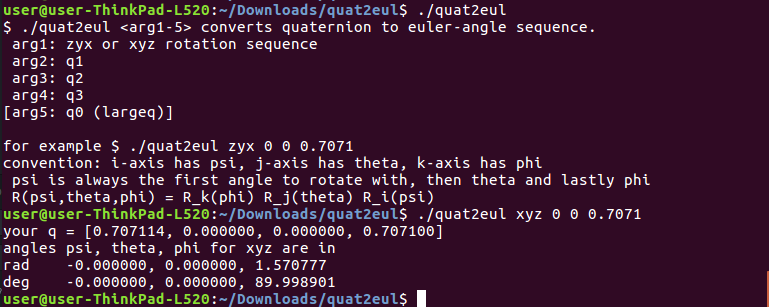
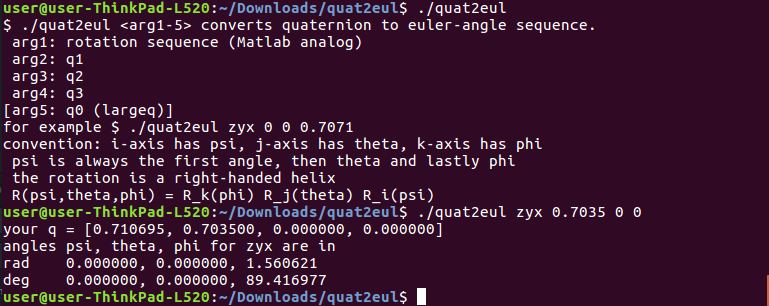
testing further seq

Changed region(s): [[0.0, 0.0, 0.8427, 1.0], [0.9987, 0.8824, 1.0, 0.9118]]

diff --git a/quat2eul.cpp b/quat2eul.cpp
@@ -13,6 +13,8 @@
 // Source https://scholar.google.de/scholar?cluster=3204262265835591787
 //        http://de.mathworks.com/help/robotics/ref/quat2eul.html
 //
+// TODO verify other sequences from Fullers spincalc
+//
 #include <string>
 #include <sstream>
 #include <iostream>
@@ -22,35 +24,64 @@
 
 using namespace std;
 
-// quaternation to euler in ZYX (seq:321)
-double* quat2eulerzyx(double* q){
-
-  // euler-angles
-  double psi = atan2( 2.*(q[1]*q[2] + q[0]*q[3]) , q[0]*q[0] + q[1]*q[1]- q[2]*q[2] - q[3]*q[3]);
-  double theta = asin( -2.*(q[1]*q[3] - q[0]*q[2]));
-  double phi = atan2( 2.*(q[2]*q[3] + q[0]*q[1]) , q[0]*q[0] - q[1]*q[1]- q[2]*q[2] + q[3]*q[3]);
-
-  // conventional: R(psi,theta,phi) = R_k(phi) R_j(theta) R_i(psi),
-  // so psi is always the first angle to rotate with, then theta and last phi
-  q[1] = psi;
-  q[2] = theta;
-  q[3] = phi;//
-  return q;
+// user output
+void printInfo(){
+  printf("$ ./quat2eul <arg1-5> converts quaternion to euler-angle sequence.\n");
+  // printf(" arg1: xyz, yzx, zxy, xzy, yxz, zyx rotation sequence (J. Fuller SpinCalc)\n");
+  printf(" arg1: rotation sequence (Matlab analog)\n");
+  printf(" arg2: q1\n");
+  printf(" arg3: q2\n");
+  printf(" arg4: q3\n");
+  printf("[arg5: q0 (largeq)]\n");
+  printf("for example $ ./quat2eul zyx 0 0 0.7071\n");
+  printf("convention: i-axis has psi, j-axis has theta, k-axis has phi\n");
+  printf(" psi is always the first angle, then theta and lastly phi\n");
+  printf(" the rotation is a right-handed helix\n");
+  printf(" R(psi,theta,phi) = R_k(phi) R_j(theta) R_i(psi)\n");
 }
 
-// quaternation to euler in XYZ (seq:123)
-double* quat2eulerxyz(double* q){
+// quaternation to euler, from John Fullers SpinCalc Matlab-Function
+void quat2eul(string seq, double* q){
+  double psi = 0;
+  double theta = 0;
+  double phi = 0;
 
-  //euler-angles
-  double psi = atan2( -2.*(q[2]*q[3] - q[0]*q[1]) , q[0]*q[0] - q[1]*q[1]- q[2]*q[2] + q[3]*q[3]);
-  double theta = asin( 2.*(q[1]*q[3] + q[0]*q[2]));
-  double phi = atan2( 2.*(-q[1]*q[2] + q[0]*q[3]) , q[0]*q[0] + q[1]*q[1] - q[2]*q[2] - q[3]*q[3]);
-
-  //save var. by simply pushing them back into the array and return
+  // if (seq.compare("xyz") == 0) {
+  //   psi=atan2(2*(q[0] *q[3] -q[1] *q[2] ),(q[3] *q[3] -q[0] *q[0] -q[1] *q[1] +q[2] *q[2] ));
+  //   theta=asin(2*(q[0] *q[2] +q[1] *q[3] ));
+  //   phi=atan2(2*(q[2] *q[3] -q[0] *q[1] ),(q[3] *q[3] +q[0] *q[0] -q[1] *q[1] -q[2] *q[2] ));
+  // } else if (seq.compare("yzx") == 0) {
+  //   psi=atan2(2*(q[1] *q[3] -q[0] *q[2] ),(q[3] *q[3] +q[0] *q[0] -q[1] *q[1] -q[2] *q[2] ));
+  //   theta=asin(2*(q[0] *q[1] +q[2] *q[3] ));
+  //   phi=atan2(2*(q[0] *q[3] -q[2] *q[1] ),(q[3] *q[3] -q[0] *q[0] +q[1] *q[1] -q[2] *q[2] ));
+  // } else if (seq.compare("zxy") == 0) {
+  //   psi=atan2(2*(q[2] *q[3] -q[0] *q[1] ),(q[3] *q[3] -q[0] *q[0] +q[1] *q[1] -q[2] *q[2] ));
+  //   theta=asin(2*(q[0] *q[3] +q[1] *q[2] ));
+  //   phi=atan2(2*(q[1] *q[3] -q[2] *q[0]),(q[3] *q[3] -q[0] *q[0] -q[1] *q[1] +q[2] *q[2] ));
+  // } else if (seq.compare("xzy") == 0) {
+  //   psi=atan2(2*(q[0] *q[3] +q[1] *q[2] ),(q[3] *q[3] -q[0] *q[0] +q[1] *q[1] -q[2] *q[2] ));
+  //   theta=asin(2*(q[2] *q[3] -q[0] *q[1] ));
+  //   phi=atan2(2*(q[0] *q[2] +q[1] *q[3] ),(q[3] *q[3] +q[0] *q[0] -q[1] *q[1] -q[2] *q[2] ));
+  // } else if (seq.compare("yxz") == 0) {
+  //   psi=atan2(2*(q[0] *q[2] +q[1] *q[3] ),(q[3] *q[3] -q[0] *q[0] -q[1] *q[1] +q[2] *q[2] ));
+  //   theta=asin(2*(q[0] *q[3] -q[1] *q[2] ));
+  //   phi=atan2(2*(q[0] *q[1] +q[2] *q[3] ),(q[3] *q[3] -q[0] *q[0] +q[1] *q[1] -q[2] *q[2] ));
+  if (seq.compare("zyx") == 0) {
+    // psi=atan2(2*(q[0] *q[1] +q[2] *q[3] ),(q[3] *q[3] +q[0] *q[0] -q[1] *q[1] -q[2] *q[2] ));
+    // theta=asin(2*(q[1] *q[3] -q[0] *q[2] ));
+    // phi=atan2(2*(q[0] *q[3] +q[2] *q[1] ),(q[3] *q[3] -q[0] *q[0] -q[1] *q[1] +q[2] *q[2] ));
+    // matlab way:
+    psi = atan2( 2.*(q[1]*q[2] + q[0]*q[3]) , q[0]*q[0] + q[1]*q[1]- q[2]*q[2] - q[3]*q[3]);
+    theta = asin( 2.*( - q[1]*q[3] + q[0]*q[2]));
+    phi = atan2( 2.*(q[2]*q[3] + q[0]*q[1]) , q[0]*q[0] - q[1]*q[1]- q[2]*q[2] + q[3]*q[3]);
+  } else {
+    printf("meh...sequence not supported.\n");
+    exit(1);
+  }
+  //save var. by pushing them back into the array
   q[1] = psi;
   q[2] = theta;
   q[3] = phi;
-  return q;
 }
 
 //rad to deg
@@ -58,20 +89,6 @@ void rad2deg(double* rads) {
   rads[1] *= (180./M_PI);
   rads[2] *= (180./M_PI);
   rads[3] *= (180./M_PI);
-}
-
-// user output
-void printInfo(){
-  printf("$ ./quat2eul <arg1-5> converts quaternion to euler-angle sequence.\n");
-  printf(" arg1: zyx or xyz rotation sequence\n");
-  printf(" arg2: q1\n");
-  printf(" arg3: q2\n");
-  printf(" arg4: q3\n");
-  printf("[arg5: q0 (largeq)]\n\n");
-  printf("for example $ ./quat2eul zyx 0 0 0.7071\n");
-  printf("convention: i-axis has psi, j-axis has theta, k-axis has phi\n");
-  printf(" psi is always the first angle to rotate with, then theta and lastly phi\n");
-  printf(" R(psi,theta,phi) = R_k(phi) R_j(theta) R_i(psi)\n");
 }
 
 // handle I/O stream, functions compute euler-angles
@@ -93,11 +110,11 @@ int main(int argc, char **argv)
   s3 >> q[2];
   s4 >> q[3];
 
-  if (argc == 5){// we have imaginary part of unit-q
+  if (argc == 5) {// we have imaginary part of unit-q
     q[0] = sqrt(1. - q[1]*q[1] - q[2]*q[2] - q[3]*q[3]);
     printf("your q = [%f, %f, %f, %f] \n", q[0], q[1], q[2], q[3]);
 
-  } else if (argc == 6){// we also have real part
+  } else if (argc == 6) {// we also have real part
     stringstream s5(argv[5]);
     s5 >> q[0];
     // normalize with euklidean-norm if ||q|| != 1
@@ -109,21 +126,10 @@ int main(int argc, char **argv)
       printf("unit q = [%f, %f, %f, %f] \n", q[0], q[1], q[2], q[3]);
     }
     printf("your q = [%f, %f, %f, %f] \n", q[0], q[1], q[2], q[3]);
-
-  } else {
-    printf("meh...input failed \n");
-    exit(1);
   }
 
   // unit-q is known, call functions to convert to euler-angles
-  if (seq.compare("xyz") == 0) {
-    quat2eulerxyz(q);
-  } else if (seq.compare("zyx")  == 0) {
-    quat2eulerzyx(q);
-  } else {
-    printf("meh...sequence to supported\n");
-    exit(1);
-  }
+  quat2eul(seq,q);
 
   // output the euler-angles
   printf("angles psi, theta, phi for %s are in \n", seq.c_str());

diff --git a/README.md b/README.md
@@ -5,7 +5,7 @@
  - Similar to Matlab but runs from the command line.
  - Supported rotation sequences XYZ and  ZYX 
    more Info: [quat2eul.cpp](quat2eul.cpp)
- - The math implementation is adopted from the technical report of [J Diebel](https://scholar.google.de/scholar?cluster=3204262265835591787)
+ - The math implementation is adopted from the technical report of [J Diebel](https://scholar.google.de/scholar?cluster=3204262265835591787). It delivers same results as [MatLab](http://www.mathworks.com/help/robotics/ref/quat2eul.html) or [WolframAlpha](https://www.wolframalpha.com/input/?i=quaternion:+0.7071%2B0i%2B0j%2B0.7071k).
  - order of the angles stays the same no matter the ijk-sequence, so psi is always the first angle to rotate with, then theta and lastly phi
 
 	 - psi for i
